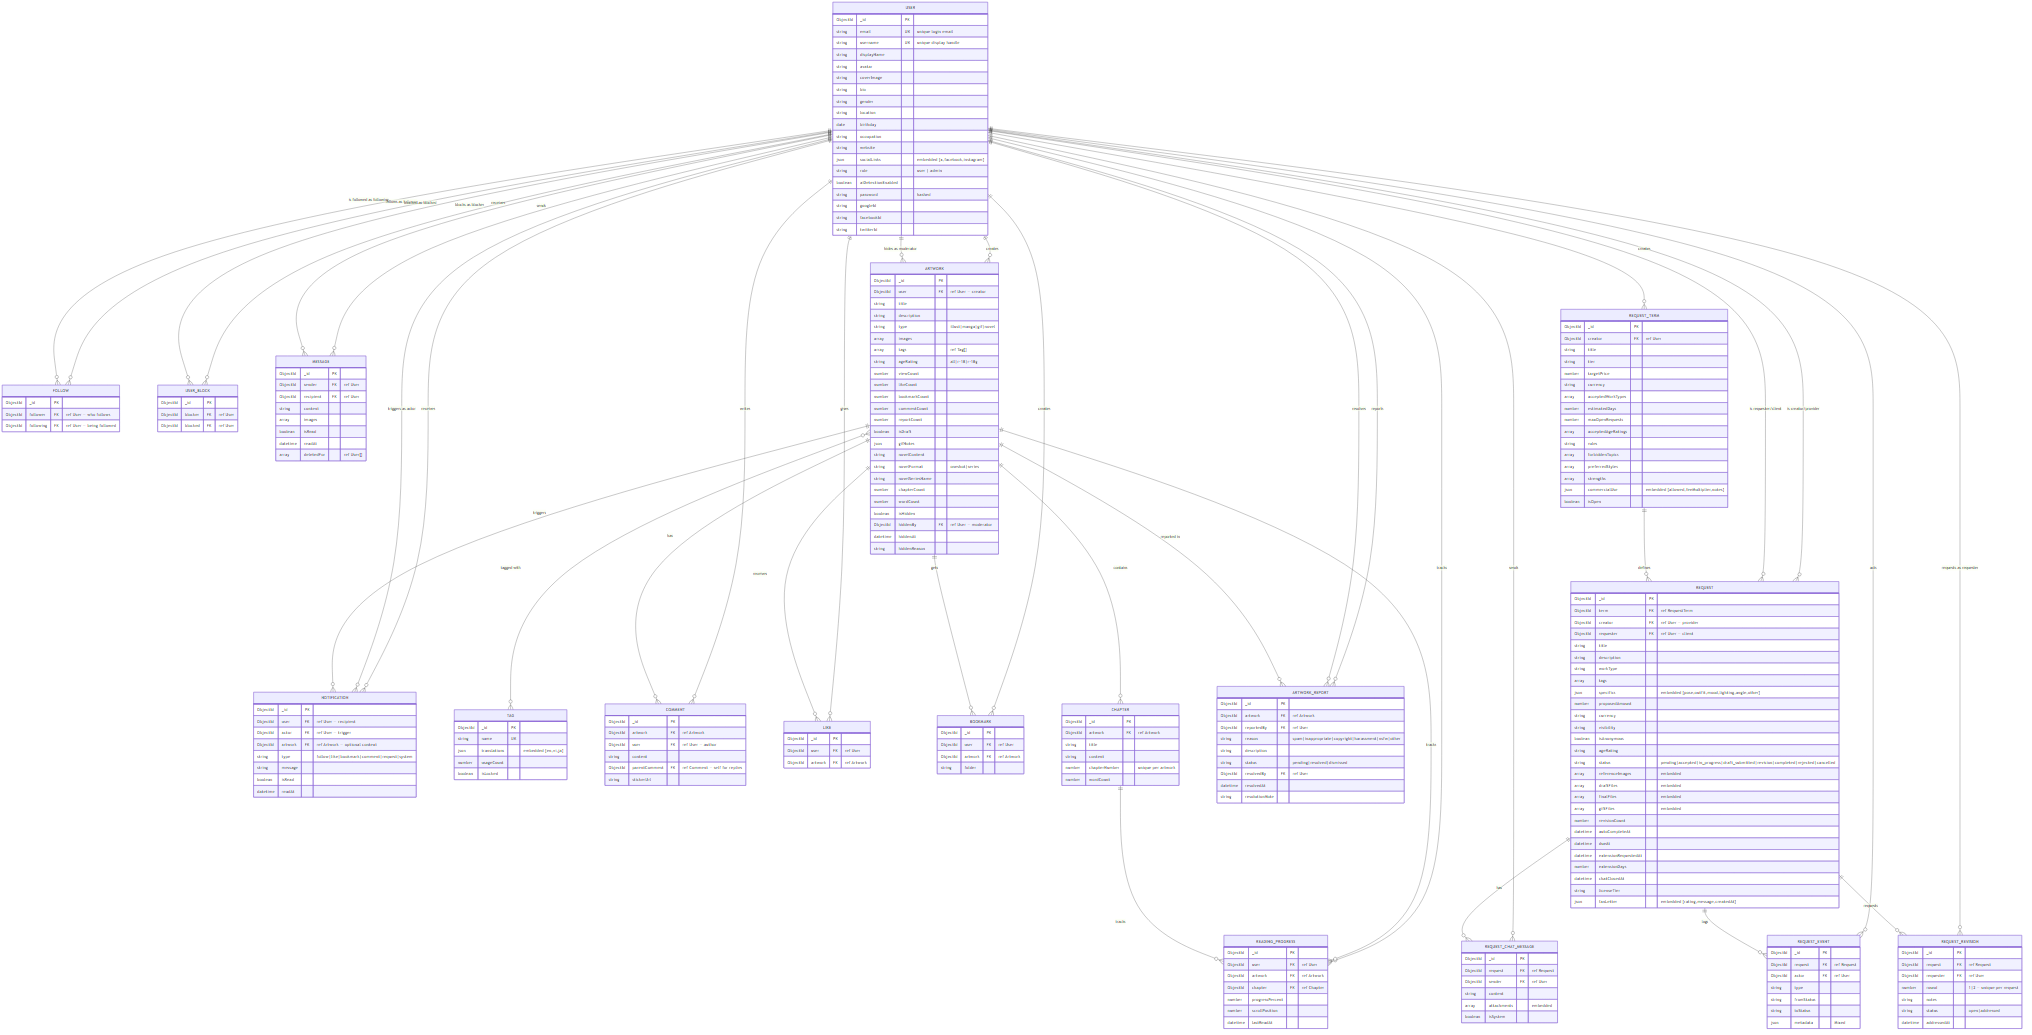
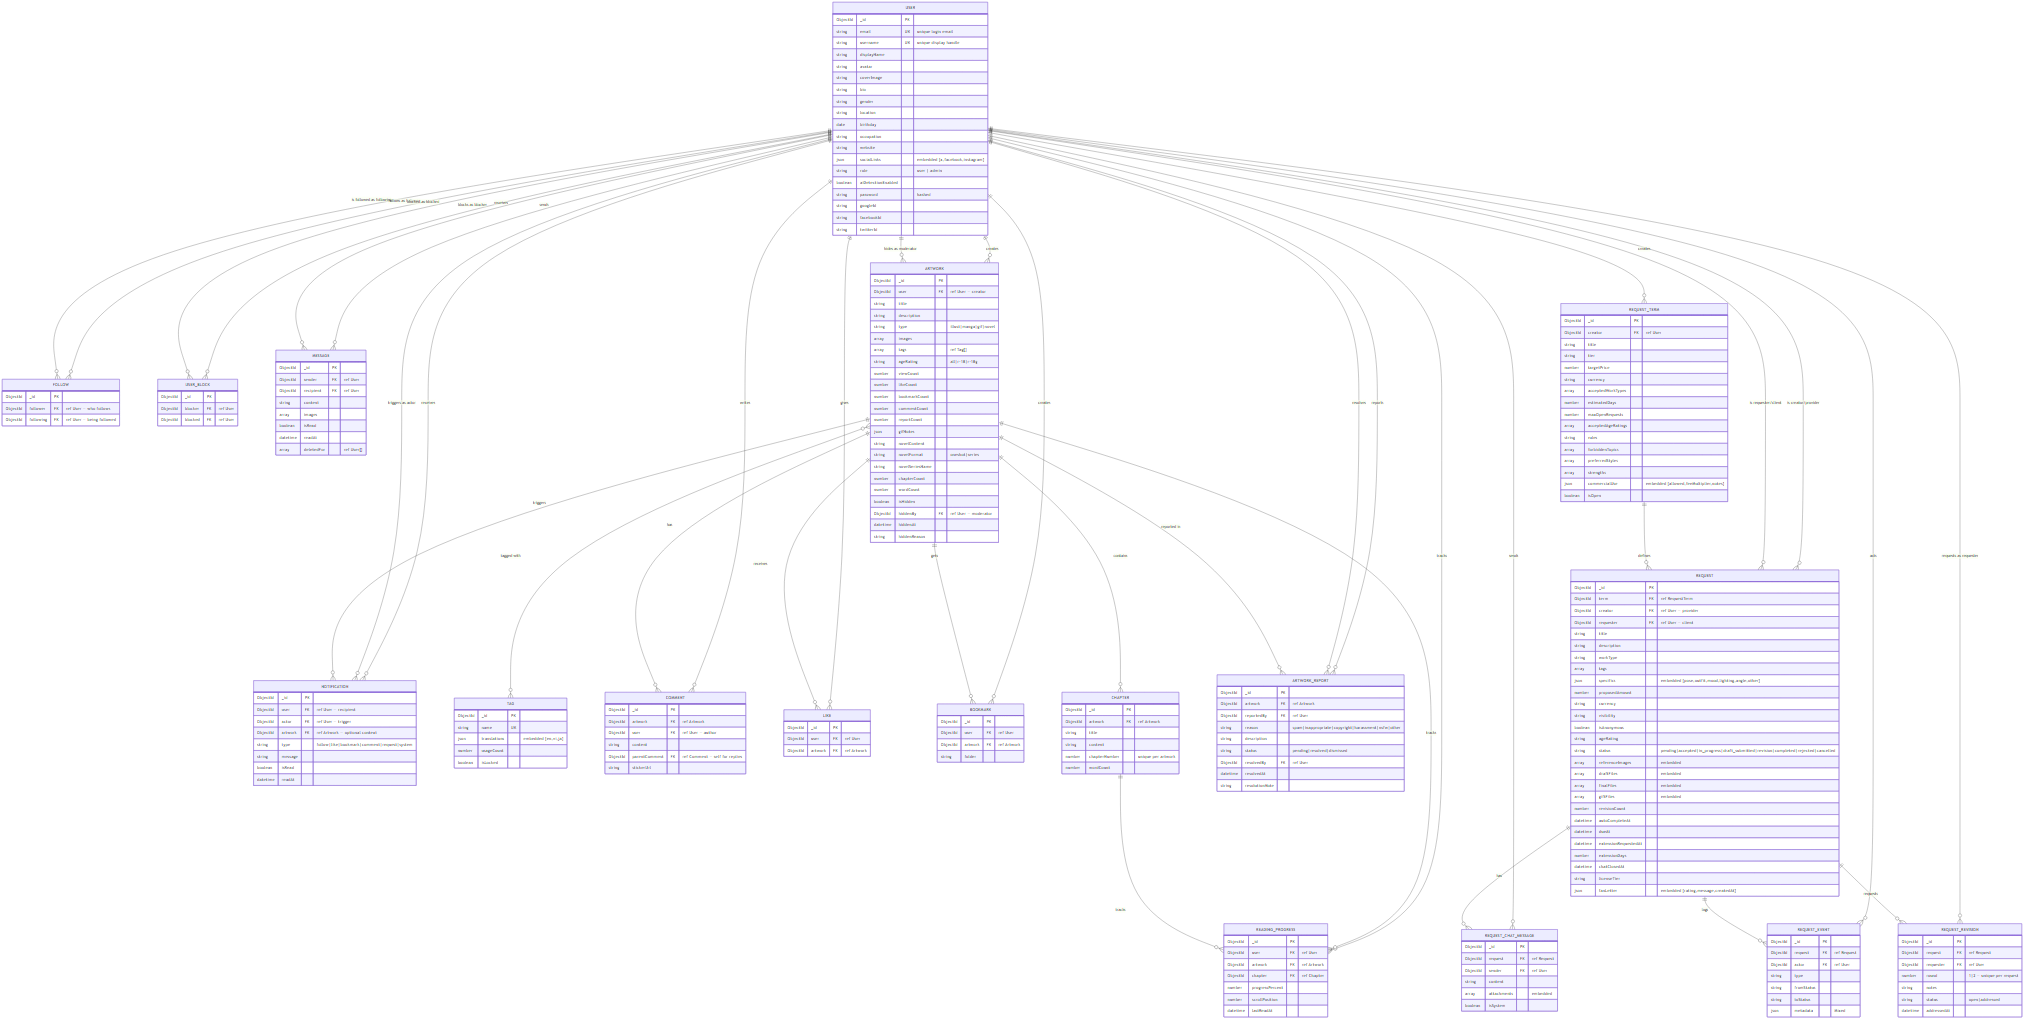
refactor: remove isDraft field from Artwork model
- Removed isDraft field from Artwork schema
- Removed isDraft: false filters from feed.controller.js
- Updated generate-erd.js, regenerated erd.md + erd.png

diff --git a/backend/controllers/feed.controller.js b/backend/controllers/feed.controller.js
@@ -14,7 +14,7 @@ const getFeed = async (req, res, next) => {
             return res.json({ artworks: [], total: 0, page, pages: 0 });
         }
 
-        const filter = { user: { $in: followingIds }, isDraft: false };
+        const filter = { user: { $in: followingIds } };
 
         const [artworks, total] = await Promise.all([
             Artwork.find(filter)
@@ -44,7 +44,7 @@ const getRankings = async (req, res, next) => {
         const limit = parseInt(req.query.limit, 10) || 50;
 
         const startDate = new Date();
-        const filter = { isDraft: false };
+        const filter = {};
 
         if (type !== 'all') {
             filter.type = type;
@@ -89,7 +89,7 @@ const getDiscovery = async (req, res, next) => {
         const type = req.query.type;
         const skip = (page - 1) * limit;
 
-        const filter = { isDraft: false };
+        const filter = {};
         if (type && type !== 'all' && type !== 'undefined') {
             filter.type = type;
         }

diff --git a/backend/models/Artwork.js b/backend/models/Artwork.js
@@ -52,10 +52,6 @@ const artworkSchema = mongoose.Schema({
         default: 0
     },
     reportCount: { type: Number, default: 0 },
-    isDraft: {
-        type: Boolean,
-        default: false
-    },
     gifNotes: {
         type: String,
         trim: true,

diff --git a/scripts/generate-erd.js b/scripts/generate-erd.js
@@ -100,7 +100,6 @@ const entities = [
       'number bookmarkCount',
       'number commentCount',
       'number reportCount',
-      'boolean isDraft',
       'json gifNotes',
       'string novelContent',
       'string novelFormat "oneshot|series"',

diff --git a/docs/diagrams/erd.md b/docs/diagrams/erd.md
@@ -78,7 +78,6 @@ erDiagram
     number bookmarkCount
     number commentCount
     number reportCount
-    boolean isDraft
     json gifNotes
     string novelContent
     string novelFormat "oneshot|series"
@@ -307,7 +306,7 @@ erDiagram
 | 3 | **USER_BLOCK** | 3 | 2 relationships | Core User System |
 | 4 | **MESSAGE** | 8 | 2 relationships | Core User System |
 | 5 | **NOTIFICATION** | 8 | 3 relationships | Core User System |
-| 6 | **ARTWORK** | 24 | 10 relationships | Content System |
+| 6 | **ARTWORK** | 23 | 10 relationships | Content System |
 | 7 | **TAG** | 5 | 1 relationships | Content System |
 | 8 | **COMMENT** | 6 | 2 relationships | Content System |
 | 9 | **LIKE** | 3 | 2 relationships | Content System |